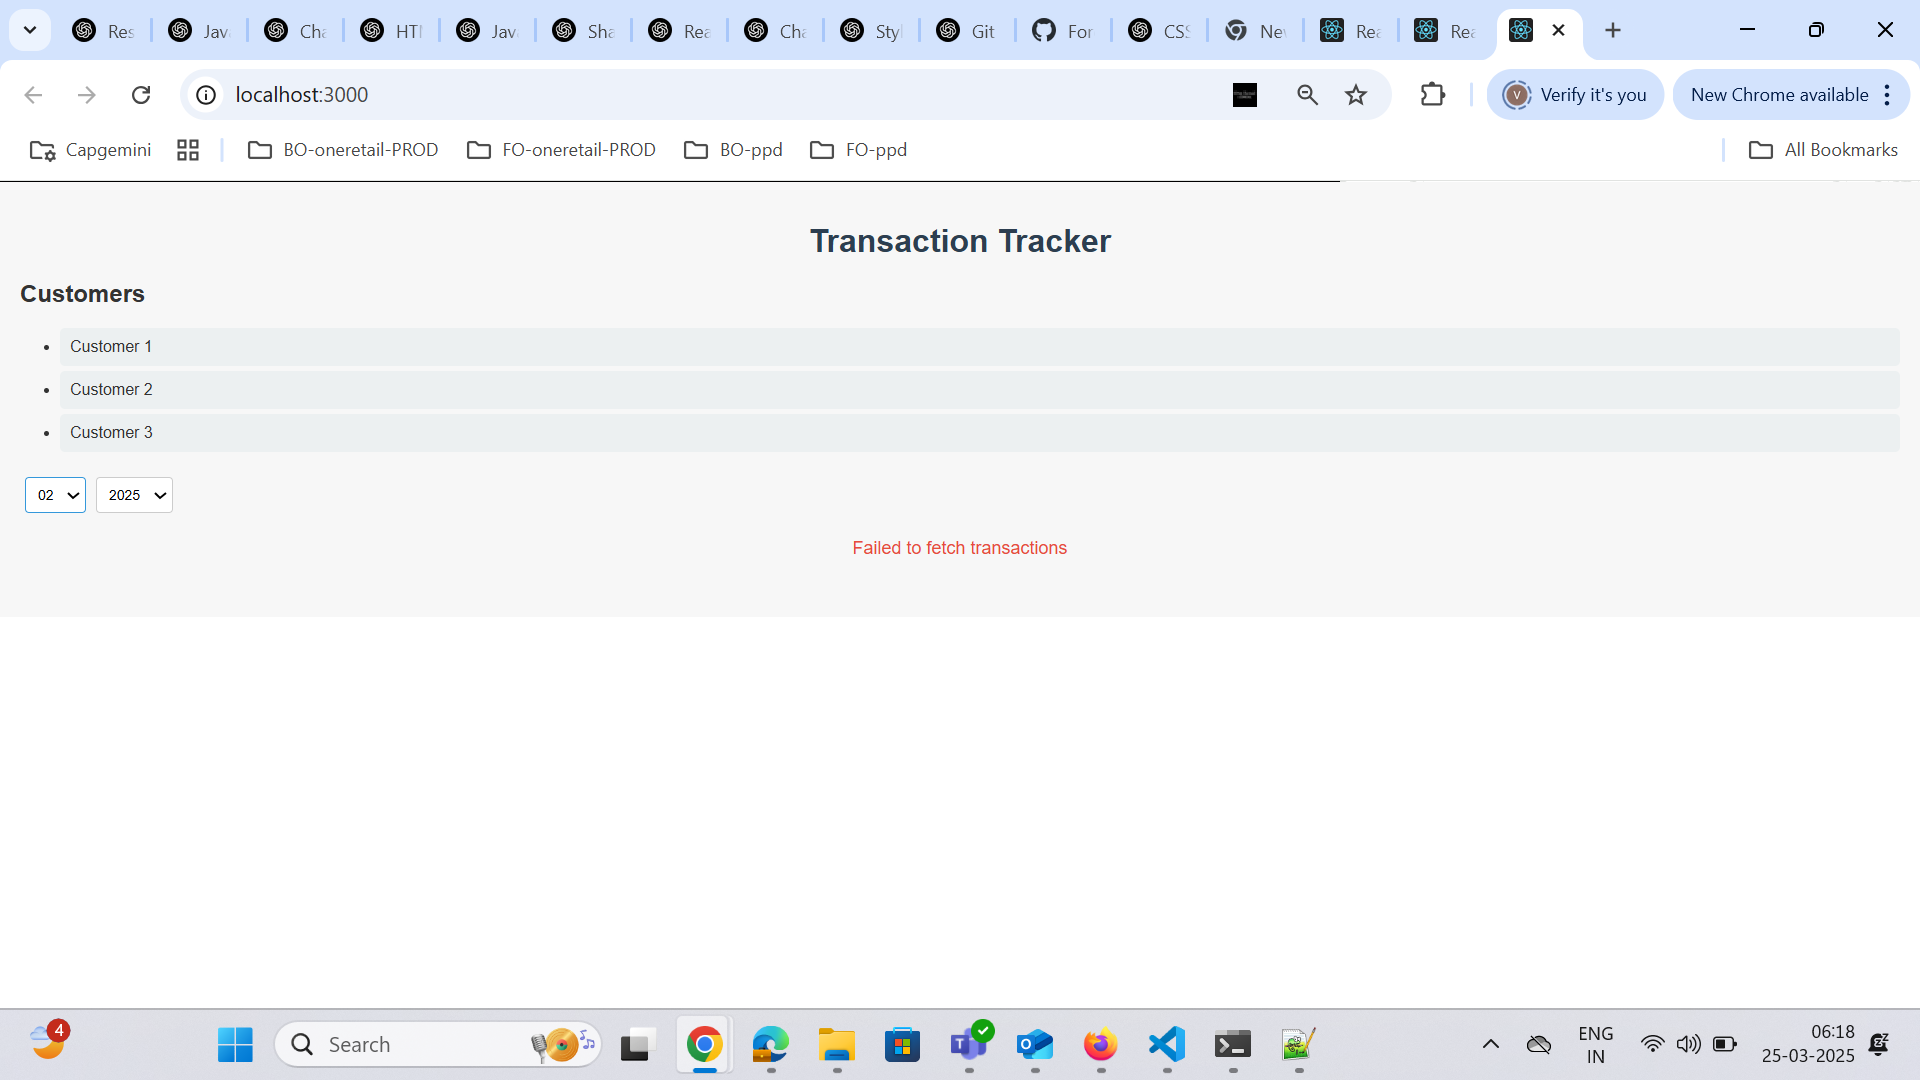
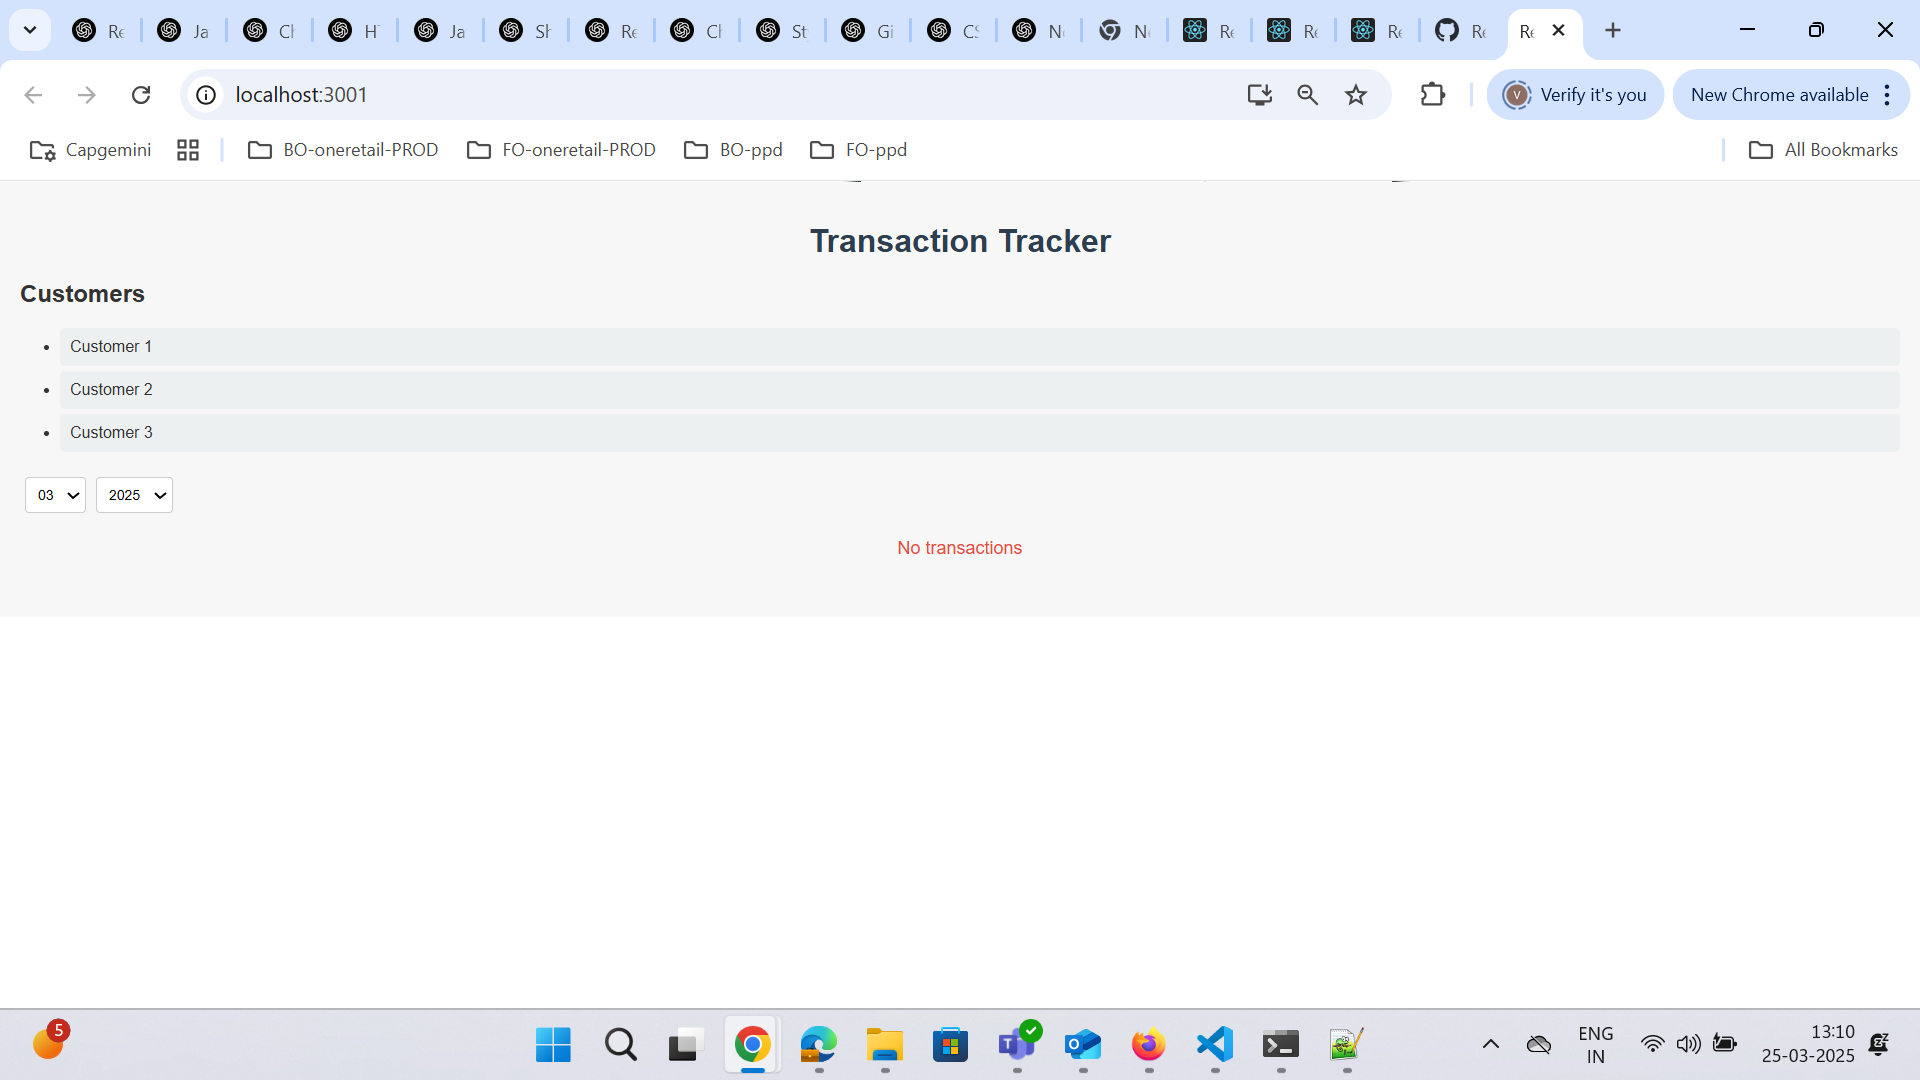
The RealMe file updated with screenshot and message

diff --git a/src/App.js b/src/App.js
@@ -54,7 +54,7 @@ const App = () => {
         setLoading(false);
       })
       .catch((err) => {
-        setError('Failed to fetch transactions');
+        setError('No transactions');
         setLoading(false);
       });
   }, [selectedCustomer, selectedMonth, selectedYear, page]);
@@ -107,7 +107,7 @@ const App = () => {
                   
                 </>
               ) : (
-                !loading && <p>No transactions found.</p> 
+                !loading && <p>No transactions</p> 
               )
             )}
           </TableWrapper>
@@ -118,3 +118,5 @@ const App = () => {
 };
 
 export default App;
+
+

diff --git a/src/components/TransactionDetails.js b/src/components/TransactionDetails.js
@@ -39,3 +39,5 @@ TransactionDetails.propTypes = {
 };
 
 export default TransactionDetails;
+
+

diff --git a/README.md b/README.md
@@ -1,118 +1,41 @@
-# Getting Started with Create React App
 
-This project was bootstrapped with [Create React App](https://github.com/facebook/create-react-app).
+# Usage:
 
-## Available Scripts
-
-In the project directory, you can run:
-
-### `npm start`
-
-Runs the app in the development mode.\
-Open [http://localhost:3000](http://localhost:3000) to view it in your browser.
-
-The page will reload when you make changes.\
-You may also see any lint errors in the console.
-
-### `npm test`
-
-Launches the test runner in the interactive watch mode.\
-See the section about [running tests](https://facebook.github.io/create-react-app/docs/running-tests) for more information.
-
-### `npm run build`
-
-Builds the app for production to the `build` folder.\
-It correctly bundles React in production mode and optimizes the build for the best performance.
-
-The build is minified and the filenames include the hashes.\
-Your app is ready to be deployed!
-
-See the section about [deployment](https://facebook.github.io/create-react-app/docs/deployment) for more information.
-
-### `npm run eject`
-
-**Note: this is a one-way operation. Once you `eject`, you can't go back!**
-
-If you aren't satisfied with the build tool and configuration choices, you can `eject` at any time. This command will remove the single build dependency from your project.
-
-Instead, it will copy all the configuration files and the transitive dependencies (webpack, Babel, ESLint, etc) right into your project so you have full control over them. All of the commands except `eject` will still work, but they will point to the copied scripts so you can tweak them. At this point you're on your own.
-
-You don't have to ever use `eject`. The curated feature set is suitable for small and middle deployments, and you shouldn't feel obligated to use this feature. However we understand that this tool wouldn't be useful if you couldn't customize it when you are ready for it.
-
-## Learn More
-
-You can learn more in the [Create React App documentation](https://facebook.github.io/create-react-app/docs/getting-started).
-
-To learn React, check out the [React documentation](https://reactjs.org/).
-
-### Code Splitting
-
-This section has moved here: [https://facebook.github.io/create-react-app/docs/code-splitting](https://facebook.github.io/create-react-app/docs/code-splitting)
-
-### Analyzing the Bundle Size
-
-This section has moved here: [https://facebook.github.io/create-react-app/docs/analyzing-the-bundle-size](https://facebook.github.io/create-react-app/docs/analyzing-the-bundle-size)
-
-### Making a Progressive Web App
-
-This section has moved here: [https://facebook.github.io/create-react-app/docs/making-a-progressive-web-app](https://facebook.github.io/create-react-app/docs/making-a-progressive-web-app)
-
-### Advanced Configuration
-
-This section has moved here: [https://facebook.github.io/create-react-app/docs/advanced-configuration](https://facebook.github.io/create-react-app/docs/advanced-configuration)
-
-### Deployment
-
-This section has moved here: [https://facebook.github.io/create-react-app/docs/deployment](https://facebook.github.io/create-react-app/docs/deployment)
-
-### `npm run build` fails to minify
-
-This section has moved here: [https://facebook.github.io/create-react-app/docs/troubleshooting#npm-run-build-fails-to-minify](https://facebook.github.io/create-react-app/docs/troubleshooting#npm-run-build-fails-to-minify)
-
-
-
-Usage
 Steps to Use the Application:
 Customer Selection:
-
 Upon visiting the application, you will see a list of customers on the left side.
-
 Click on any customer to view their transaction details.
-
 Filter Transactions by Month and Year:
-
 Use the dropdown menus to filter transactions based on month and year.
 
 By default, the "recent 3 months" filter and the year 2025 are selected. You can change these filters to see data for different months and years.
 
-Viewing Transaction Details:
+## Installation
+Follow the steps below to run the application locally:
+1. Clone the repository:
+   git clone https://github.com/Vinutha-KY/Rewards.git
+   cd Rewards
+   Install the required dependencies: npm install
+   start the development server:npm start
 
+# Viewing Transaction Details:
 Transactions are displayed in a table with the following columns: Transaction ID, Amount, Date, and Rewards.
-
-If no transactions match the selected filter, the message "Failed to fetch transactions" will be displayed.
-
+If no transactions match the selected filter, the message "No transactions" will be displayed.
 Pagination:Transactions are paginated, displaying 3 transactions per page.
-
 You can navigate through pages using the pagination buttons at the bottom of the table.
 
-Error Handling:
-If the API fetch fails, the error message "Failed to fetch transactions" will be shown.
+# Error Handling:
+When no transactions are available, the "No transactions" message will be displayed instead of a table.
 
-When no transactions are available, the "Failed to fetch transactions" message will be displayed instead of a table.
-
-Test Cases
+# Test Cases
 Test Case 1: View Transactions for a Customer
 Description: Ensure that transaction details are displayed when a customer is selected.
-
 Expected Result: The transaction details should be displayed in a paginated table.
-
 Screenshot: ![alt text](image.png) ![alt text](image-2.png) ![alt text](image-3.png)
 
-Test Case 2: Error Handling (Failed Fetch) and No Transactions Found
-
+Test Case 2:  No Transactions ![alt text](image-1.png)
 Description: Ensure that an error message is displayed when the transaction fetch fails.
-
-Expected Result: The error message "Failed to fetch transactions" should be shown, and the table should not render.
+Expected Result: The error message "No transactions" should be shown, and the table should not render.
 
 Screenshot:
 -
